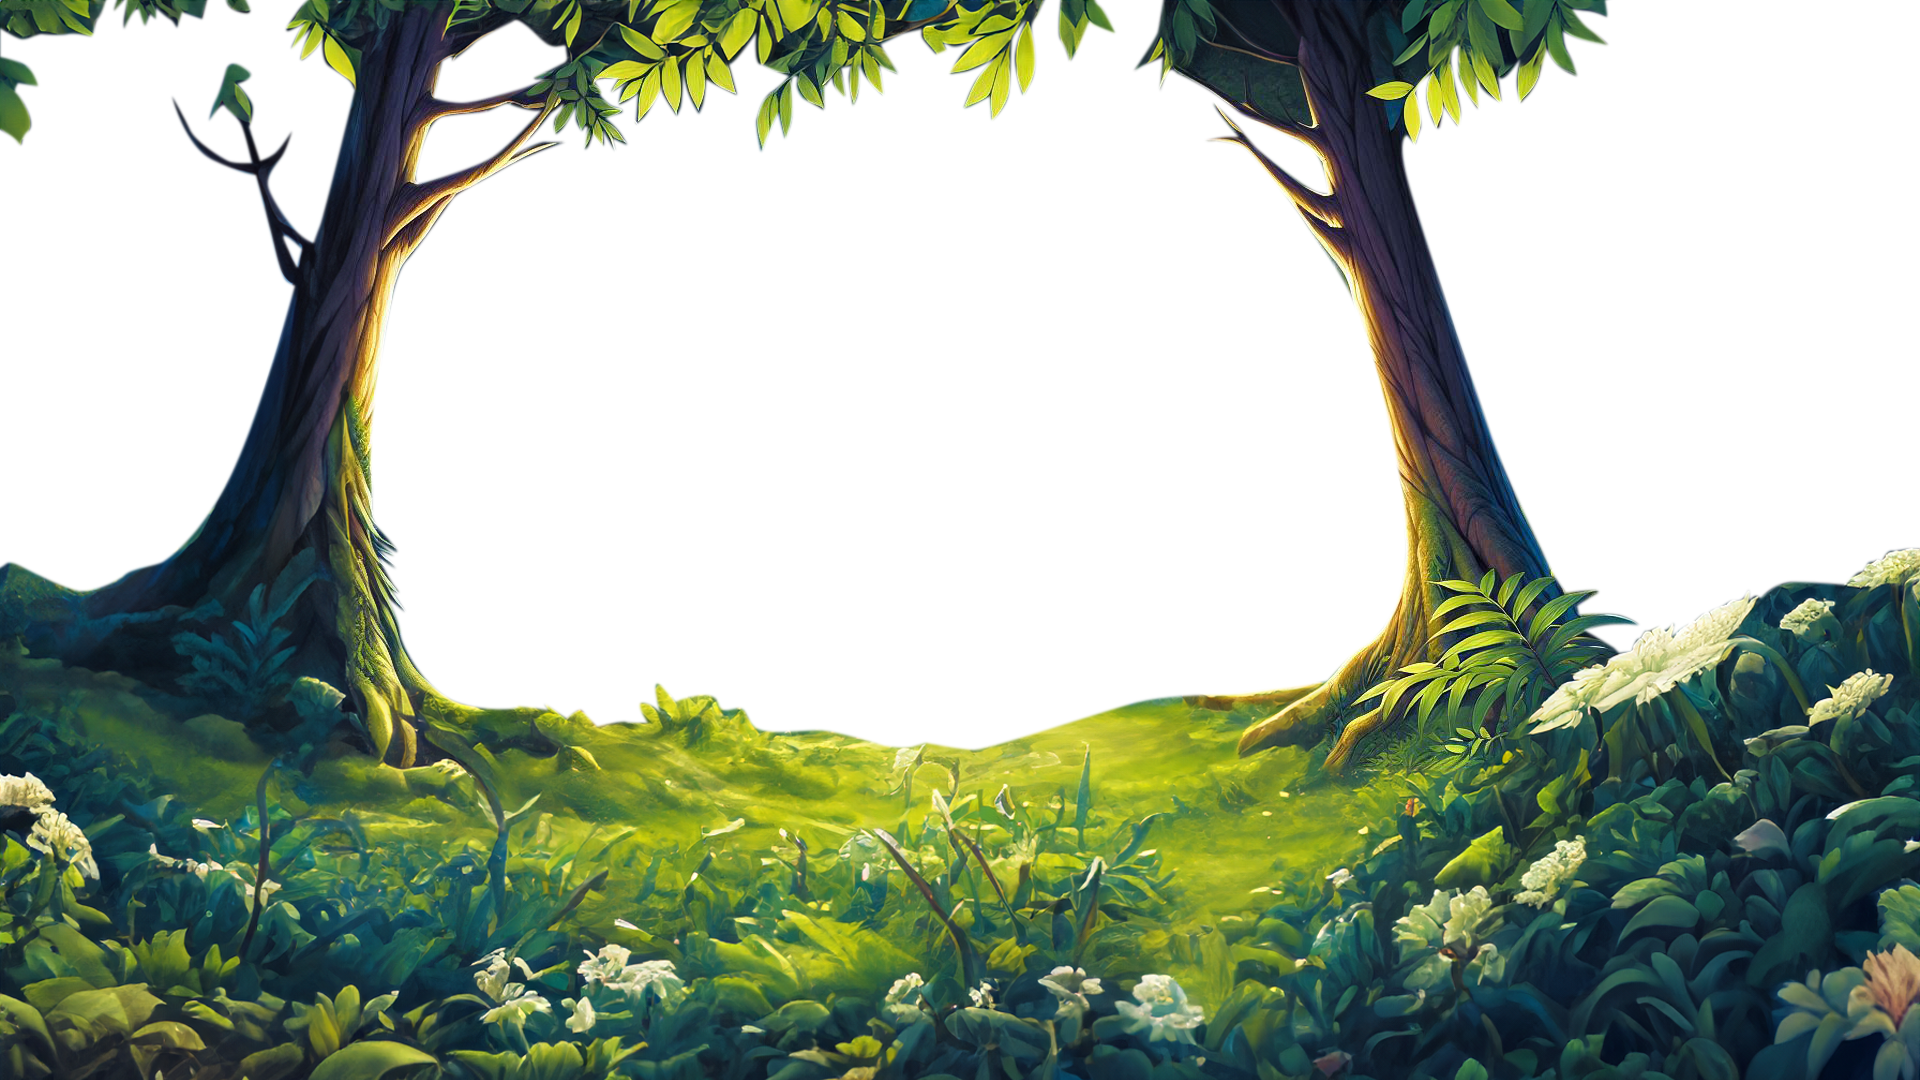
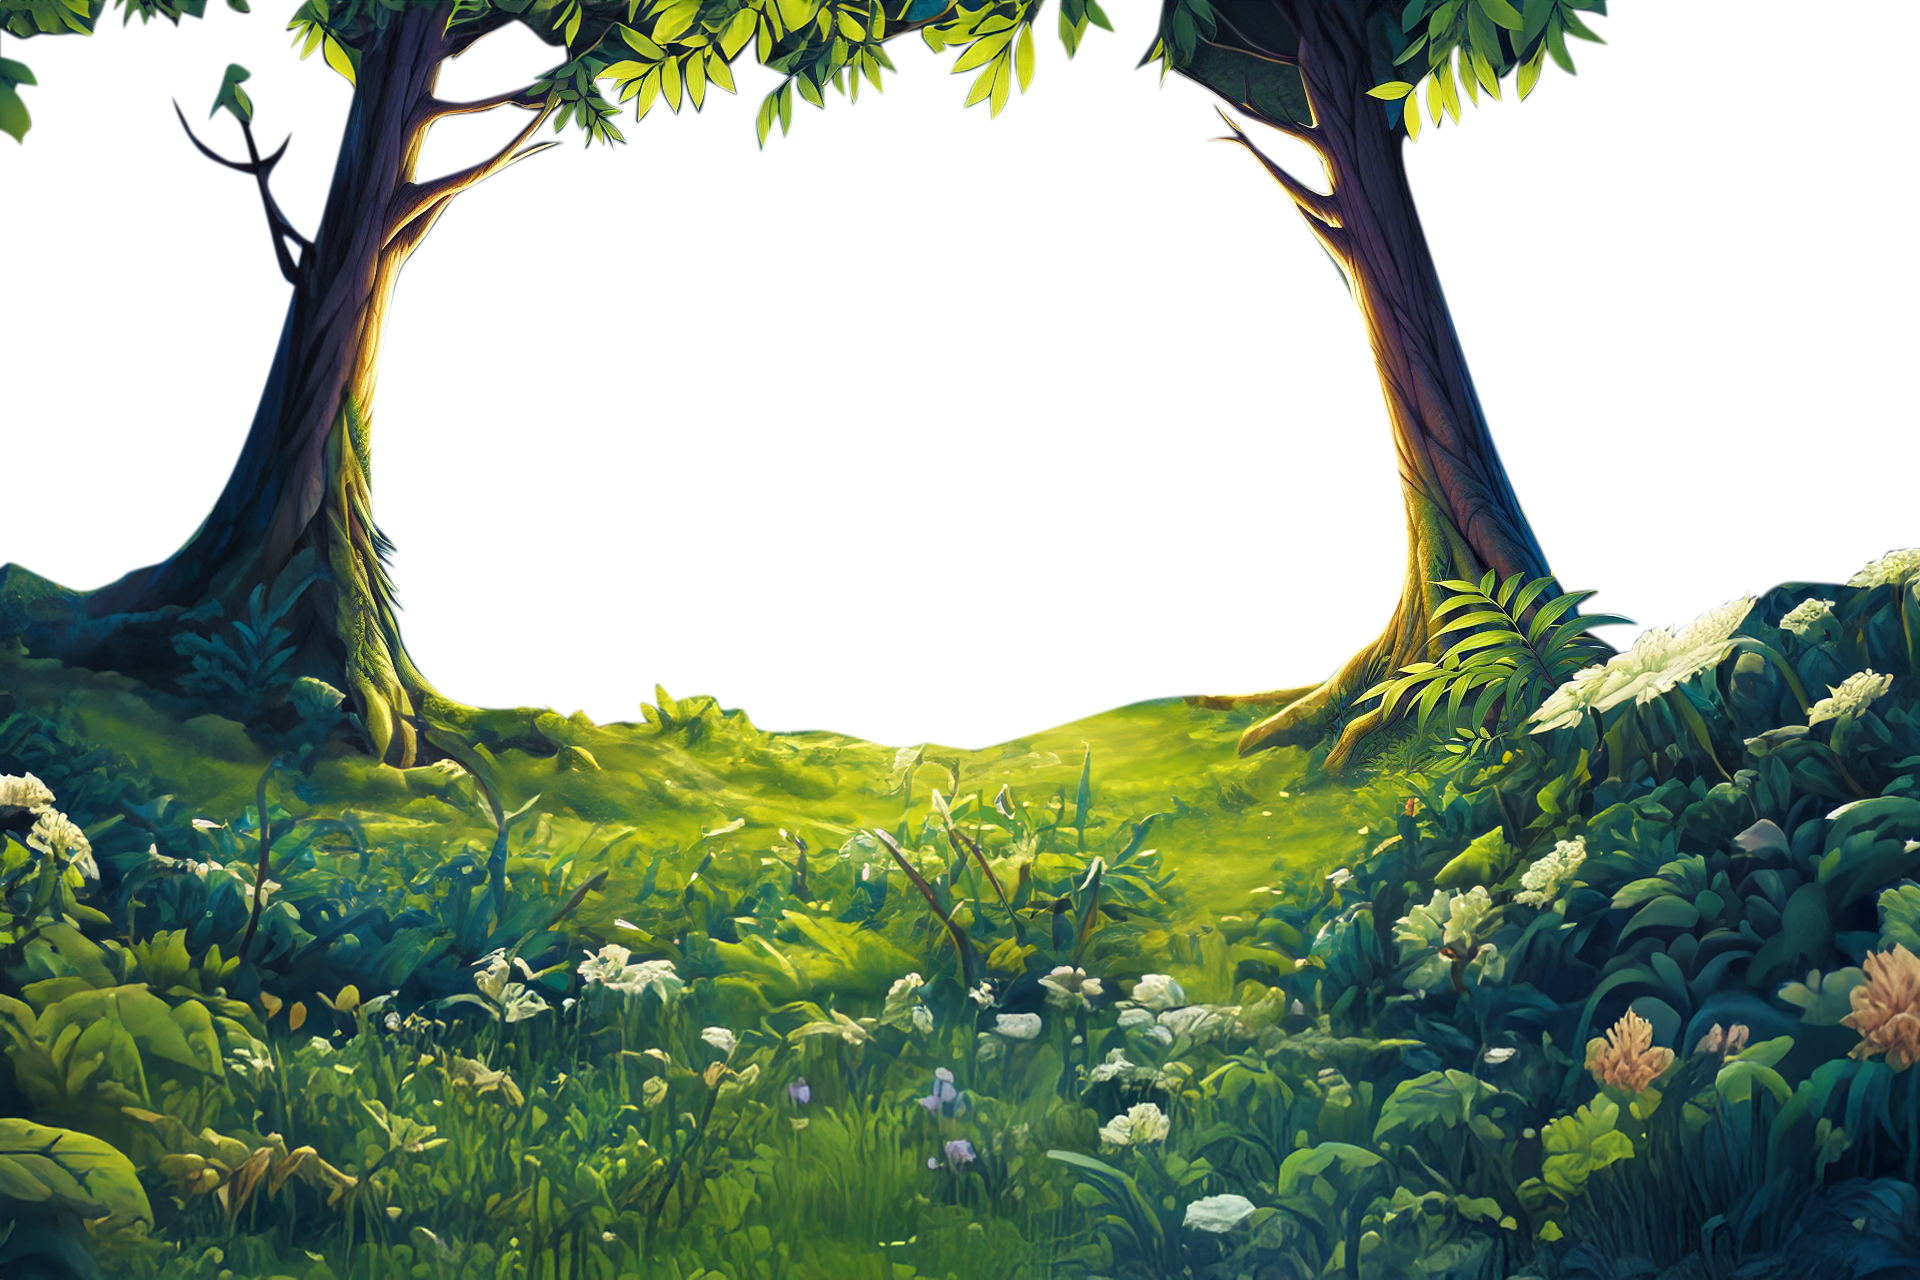
fix and update redimension img + css parallax

diff --git a/src/assets/css/Components/Parallax.css b/src/assets/css/Components/Parallax.css
@@ -208,3 +208,45 @@ img.key-object-img {
 #quest-by-id .parallax-container{
   background-repeat: no-repeat;
 }
+.quest-container {
+  position: relative;
+}
+.quest-card {
+  background: none;
+  box-shadow: none;
+}
+.quest-body {
+  position: relative;
+  overflow: hidden;
+}
+.parallax-wrapper {
+  position: relative;
+  min-height: 80vh;
+  overflow: hidden;
+}
+.parallax-background {
+  position: absolute;
+  top: 0;
+  left: 0;
+  width: 100%;
+  height: 100%;
+  background-size: cover;
+  background-position: center;
+  z-index: 1;
+}
+.parallax-layer {
+  position: absolute;
+  top: 0;
+  left: 0;
+  width: 100%;
+  height: 100%;
+  background-size: contain;
+  background-repeat: no-repeat;
+  background-position: center;
+  z-index: 2;
+  pointer-events: none;
+}
+.quest-content {
+  position: relative;
+  z-index: 3;
+}
